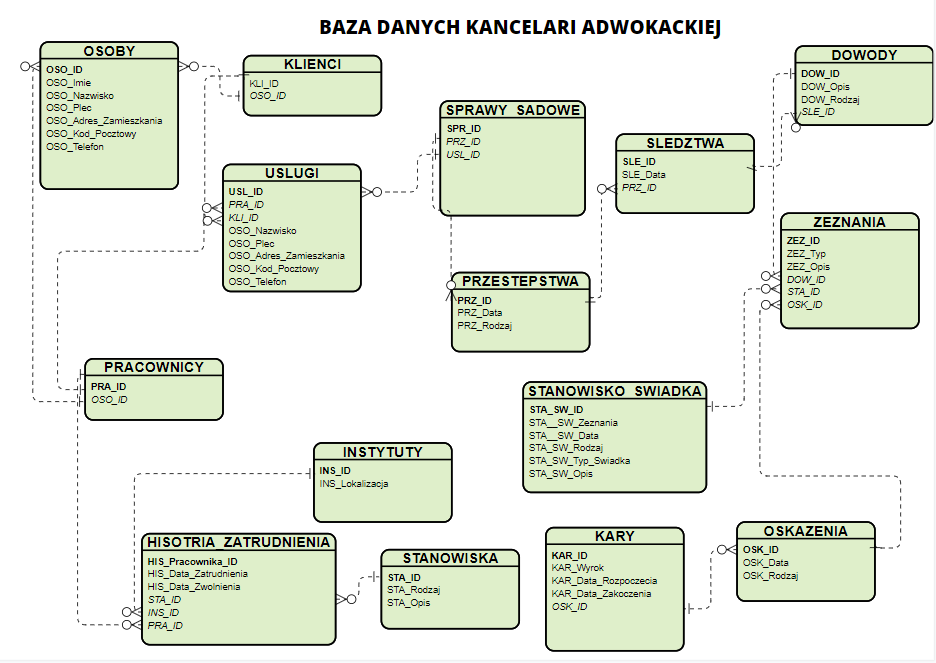
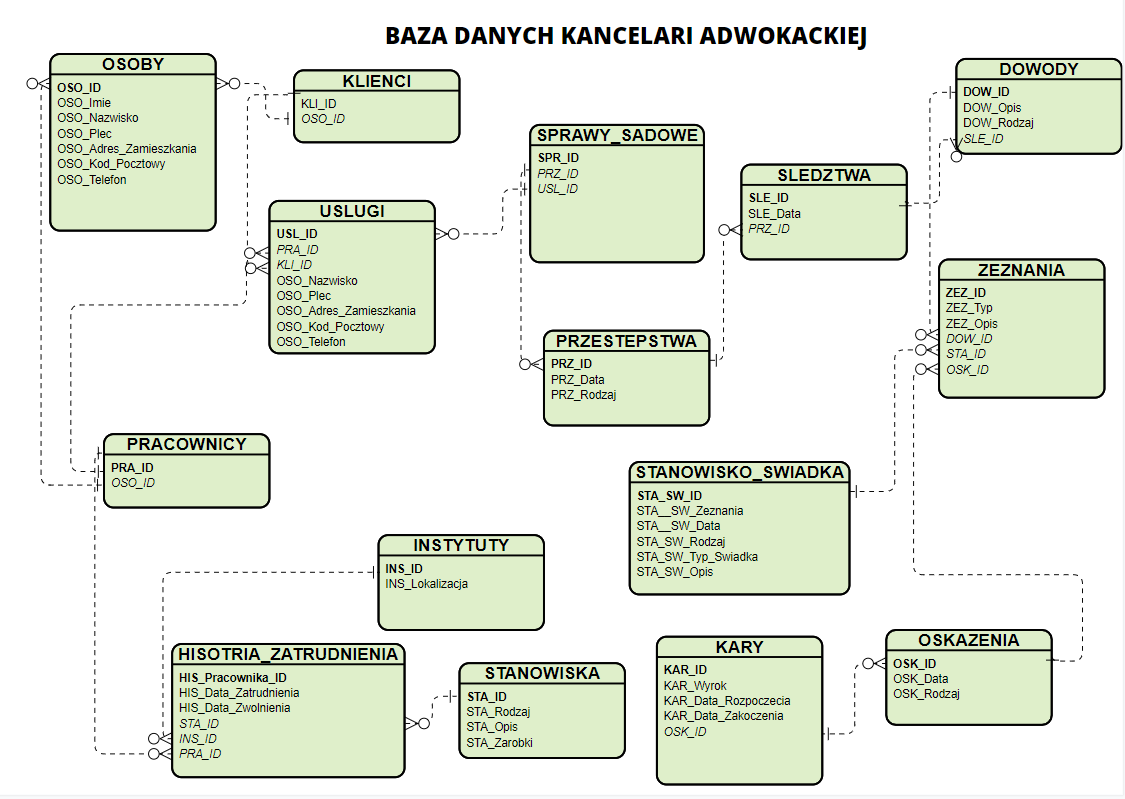
Update datebase diagram & README.MD

diff --git a/README.MD b/README.MD
@@ -5,7 +5,8 @@
 * Create a SQL script that generates a full logical database structure,
 * Add sequences and triggers with test data sample,
 * SELECT to select data from tables using different operators in WHERE (UPDATE & NVL test),
-* Add group by & having select.
+* Add group by & having select,
+* Subquestions and perspectives.
 
 
 For the purposes of the project, names of tables, data, descriptions, etc. are in Polish
